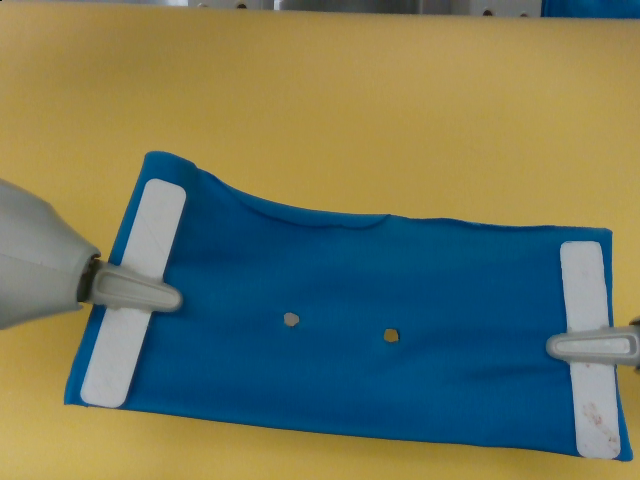
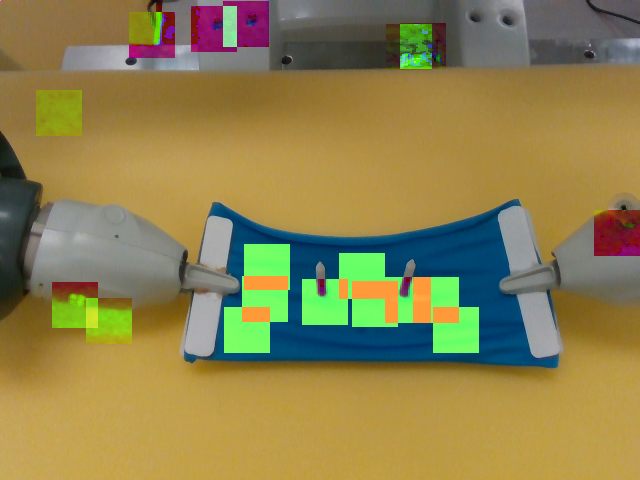
add towel node

diff --git a/src/soft_object_tracking_towel_node.cpp b/src/soft_object_tracking_towel_node.cpp
@@ -1,0 +1,238 @@
+//system and self
+#include <iostream>
+#include <fstream>
+#include <cmath>
+#include <math.h>
+#include <stddef.h>
+#include <stdlib.h>
+#include <string.h>
+
+//vision process library
+#include <pcl/visualization/cloud_viewer.h>
+#include <pcl/filters/statistical_outlier_removal.h>
+#include <pcl/filters/passthrough.h>
+#include <pcl/segmentation/sac_segmentation.h>
+#include <pcl/segmentation/region_growing_rgb.h>
+#include <pcl/search/search.h>
+#include <pcl/search/kdtree.h>
+#include <pcl/point_types_conversion.h>
+#include <pcl/point_types.h>
+#include <pcl/filters/extract_indices.h>
+#include <pcl/filters/radius_outlier_removal.h>
+#include <pcl/filters/voxel_grid.h>
+#include "opencv2/opencv.hpp"
+#include "opencv2/core/core.hpp"
+#include "opencv2/highgui/highgui.hpp"
+
+//ros
+#include <ros/ros.h>
+#include <ros/package.h>
+#include <std_msgs/Float64MultiArray.h>
+#include <std_msgs/Bool.h>
+#include <std_msgs/Int8.h>
+#include <sensor_msgs/JointState.h>
+#include <sensor_msgs/Image.h>
+#include <sensor_msgs/PointCloud2.h>
+#include <cv_bridge/cv_bridge.h>
+#include <message_filters/subscriber.h>
+#include <message_filters/time_synchronizer.h>
+#include <message_filters/chain.h>
+#include <message_filters/sync_policies/approximate_time.h>
+#include <pcl_ros/point_cloud.h>
+
+#define FPS 10
+
+//return the centroid of given points
+pcl::PointXYZRGB getCentroid(std::vector<pcl::PointXYZRGB> p)
+{
+    pcl::PointXYZRGB centroid;
+    for(int i=0;i<p.size();i++){
+        centroid.x += p[i].x;
+        centroid.y += p[i].y;
+        centroid.z += p[i].z;
+    }
+    centroid.x /= p.size();
+    centroid.y /= p.size();
+    centroid.z /= p.size();
+    return centroid;
+    
+}
+//return the distance between two points
+double dist(pcl::PointXYZRGB p1,pcl::PointXYZRGB p2)
+{
+    return (std::sqrt((p1.x-p2.x)*(p1.x-p2.x)+(p1.y-p2.y)*(p1.y-p2.y)+(p1.z-p2.z)*(p1.z-p2.z)));
+}
+
+//return value higher than threshold
+void highPass(double *pointer,int size, double threshold)
+{
+    for(int i=0;i<size;i++){
+        if(std::abs(pointer[i])<threshold)
+            pointer[i] = 0;
+    }
+}
+
+//return soomth value
+void lowPass(double *pointer,pcl::PointXYZRGB centroid11, pcl::PointXYZRGB centroid22)
+{
+    double lambda = 0;
+    pointer[0] = lambda*pointer[0] + (1-lambda)*centroid11.x;
+    pointer[1] = lambda*pointer[1] + (1-lambda)*centroid11.y;
+    pointer[2] = lambda*pointer[2] + (1-lambda)*centroid11.z;
+    pointer[3] = lambda*pointer[3] + (1-lambda)*centroid22.x;
+    pointer[4] = lambda*pointer[4] + (1-lambda)*centroid22.y;
+    pointer[5] = lambda*pointer[5] + (1-lambda)*centroid22.z;
+}
+
+
+
+pcl::PointCloud<pcl::PointXYZRGB >::Ptr cldC(new pcl::PointCloud<pcl::PointXYZRGB>);
+pcl::PointCloud<pcl::PointXYZRGB >::Ptr cldROIC(new pcl::PointCloud<pcl::PointXYZRGB>);
+pcl::visualization::CloudViewer viewer ("Simple Cloud Viewer");
+
+//global variable feedback points
+double p[6] = {0};
+//time to start tracking stage
+bool confirmed = false;
+bool is_getCen = false;
+pcl::ExtractIndices<pcl::PointXYZRGB> eifilter (true); // Initializing with true will allow us to extract the removed indices
+pcl::PointIndices::Ptr inliers (new pcl::PointIndices ());
+pcl::PointXYZRGB centroid11;
+pcl::PointXYZRGB centroid22;
+void pointCallback(const sensor_msgs::PointCloud2ConstPtr& pclPts){
+    pcl::fromROSMsg<pcl::PointXYZRGB >(*pclPts,*cldC);
+    
+    pcl::PassThrough<pcl::PointXYZRGB> pass;
+	pass.setInputCloud (cldC);
+
+    pass.setFilterFieldName ("x");
+    if(confirmed)
+        pass.setFilterLimits (-0.3, 0.3);
+    else
+        pass.setFilterLimits (-0.1, 0.1);
+
+	pass.filter (*cldROIC);
+
+    
+    pcl::PointXYZHSV temp;
+    double xCenter = 0,yCenter = 0,zCenter = 0;
+	for(int i=0;i<cldROIC->size();i++){
+		pcl::PointXYZRGBtoXYZHSV(cldROIC->points[i],temp);
+		if(temp.h>160 && temp.h<210 && temp.s>0.4){
+			inliers->indices.push_back(i);
+			xCenter +=cldROIC->points[i].x;
+            
+// 			yCenter +=cldROIC->points[i].y;
+// 			zCenter +=cldROIC->points[i].z;
+		}
+	}
+	xCenter /= inliers->indices.size();
+	
+	eifilter.setInputCloud (cldROIC);
+	eifilter.setIndices (inliers);
+	eifilter.filter (*cldROIC);
+    inliers->indices.clear();
+    
+    
+    std::vector<pcl::PointXYZRGB> selectedPoint1;
+    std::vector<pcl::PointXYZRGB> selectedPoint2;
+    std::vector<pcl::PointXYZRGB> selectedPoint11;
+    std::vector<pcl::PointXYZRGB> selectedPoint22;
+    for(int i=0;i<cldROIC->size();i++){
+        if(confirmed){
+            double dist1 = dist(cldROIC->points[i],centroid11);
+            double dist2 = dist(cldROIC->points[i],centroid22);
+            if(dist1 < std::min(dist2,0.02)){
+                selectedPoint1.push_back(cldROIC->points[i]);
+                cldROIC->points[i].g = 255;
+            }
+            else if(dist2 < std::min(dist1,0.02)){
+                selectedPoint2.push_back(cldROIC->points[i]);
+                cldROIC->points[i].g = 255;
+            }
+        }
+        else{
+            if(cldROIC->points[i].x < xCenter){
+                selectedPoint1.push_back(cldROIC->points[i]);
+            }
+            else{
+                selectedPoint2.push_back(cldROIC->points[i]);
+            }
+        }
+        
+    }
+    
+    
+//     std::cout<<"size1: "<<sizes[0]<<"  size2:"<<sizes[1]<<std::endl;
+    if(selectedPoint1.size() > 5 && selectedPoint2.size() > 5){
+        pcl::PointXYZRGB centroid1,centroid2;
+        //if confirmed, use last centroid to estimate current centroid.Otherwise compute the centroid use all points
+        
+        centroid1 = getCentroid(selectedPoint1);
+        centroid2 = getCentroid(selectedPoint2);
+        if(confirmed){
+            selectedPoint11 = selectedPoint1;
+            selectedPoint22 = selectedPoint2;
+        }
+        else{
+            for(int i=0;i<selectedPoint1.size();i++){
+                if(dist(selectedPoint1[i],centroid1)<0.1)
+                    selectedPoint11.push_back(selectedPoint1[i]);
+                }
+            for(int i=0;i<selectedPoint2.size();i++){
+                if(dist(selectedPoint2[i],centroid2)<0.1)
+                    selectedPoint22.push_back(selectedPoint2[i]);
+                }
+        }
+        if(selectedPoint11.size() > 5 && selectedPoint22.size() > 5){
+            centroid11 = getCentroid(selectedPoint11);
+            centroid22 = getCentroid(selectedPoint22);
+            centroid11.r = 255;
+            centroid22.r = 255;
+            
+            //high pass to filter noise
+//             highPass(p,6,1e-3);
+            //low pass to filter noise
+            lowPass(p,centroid11,centroid22);
+            cldROIC->points.push_back(centroid11);
+            cldROIC->points.push_back(centroid22);
+            
+            confirmed = true;
+            is_getCen = true;
+        }
+    }
+    
+	viewer.showCloud(cldROIC);
+
+}
+
+
+int main(int argc, char ** argv)
+{
+    ros::init(argc,argv, "soft_object_tracking_towel_node", ros::init_options::NoSigintHandler);
+    ros::NodeHandle node;
+    ros::Subscriber imagePoint_sub = node.subscribe("/camera/depth_registered/points_SR300_611205001943", 2, pointCallback);
+    ros::Publisher centroid_publisher = node.advertise<std_msgs::Float64MultiArray> ("/soft_object_tracking/centroid", 2);
+    
+
+    ros::Rate rate(FPS);
+    while(ros::ok())
+    {
+        if(viewer.wasStopped())
+            break;
+        if(is_getCen)
+        {
+            std_msgs::Float64MultiArray centroid_frame;
+            for(int i=0;i<6;i++)
+                centroid_frame.data.push_back(p[i]);
+            centroid_publisher.publish(centroid_frame);
+        }
+        else
+            std::cout<<"Didn't receive the feature points\n";
+
+        ros::spinOnce();
+        rate.sleep();
+    }
+            
+
+}

diff --git a/src/soft_object_tracking_node.cpp b/src/soft_object_tracking_node.cpp
@@ -47,7 +47,7 @@
 
 
 #define FPS 30
-#define QUEUQ_MAX_SIZE 1
+#define QUEUQ_MAX_SIZE 4
 
 typedef message_filters::sync_policies::ApproximateTime<sensor_msgs::Image, 
                                                         sensor_msgs::Image> syncPolicy;
@@ -124,6 +124,7 @@ cv::Mat getDepthColorMap(cv::Mat image_depth){
 
 //time to start tracking stage
 bool received = false;
+std::vector<cv::Mat> cls;
 void chatterCallbackCVC(const sensor_msgs::ImageConstPtr& imgRGB,const sensor_msgs::ImageConstPtr& imgDepth){
     imageRGB = cv_bridge::toCvCopy(imgRGB,sensor_msgs::image_encodings::BGR8);
     imageDepth = cv_bridge::toCvCopy(imgDepth,sensor_msgs::image_encodings::TYPE_16UC1);
@@ -193,32 +194,37 @@ cv::Point3f getContourCentroid(std::vector<cv::Point>& contour, cv::Point shift,
     for(int i=0;i<contour.size();i++)
     {
         //manually dilate
+        bool do_dilate = false;
         int dilate_max_size = 3;
         int dilate_min_size = 3;
         int x = contour[i].x-centroid2d.x;
         int y = contour[i].y-centroid2d.y;
 
-        if(x == 0 && y == 0){
-            std::cout<<"contour not closed\n";
-            for(int i=0;i<contour.size();i++)
-            {
-                std::cout<<contour[i].x<<" "<<contour[i].y<<" ";
-            }
-            std::cout<<"\ndp:"<<(int)contour.size()<<"\n";
-            std::vector<std::vector<cv::Point> >cs;
-            cs.push_back(contour);
-            cv::drawContours( imageRGB->image, cs, 0, cv::Scalar::all(255), 1.6, 8,cv::noArray(),INT_MAX,shift);
-            cv::imshow("imageDepthDilated",imageRGB->image);
-            cv::waitKey(0);
-        }
+//         if(x == 0 && y == 0){
+//             std::cout<<"contour not closed\n";
+//             for(int i=0;i<contour.size();i++)
+//             {
+//                 std::cout<<contour[i].x<<" "<<contour[i].y<<" ";
+//             }
+//             std::cout<<"\ndp:"<<(int)contour.size()<<"\n";
+//             std::vector<std::vector<cv::Point> >cs;
+//             cs.push_back(contour);
+//             cv::drawContours( imageRGB->image, cs, 0, cv::Scalar::all(255), 1.6, 8,cv::noArray(),INT_MAX,shift);
+//             cv::imshow("imageDepthDilated",imageRGB->image);
+//             cv::waitKey(0);
+//         }
         for(int j=dilate_min_size;j<=dilate_max_size;j++)
         {
             double dilate_scale = j/std::sqrt(x*x+y*y);
             cv::Point dilated_point;
             dilated_point.x = int(dilate_scale * x);
             dilated_point.y = int(dilate_scale * y);
-            double depth_temp = image_depth.at<ushort>(contour[i] + dilated_point + shift);
-            if(depth_temp > 0 && depth_temp < (2/intrin->dev_depth_scale))
+            double depth_temp;
+            if(do_dilate)
+                depth_temp = image_depth.at<ushort>(contour[i] + dilated_point + shift);
+            else
+                depth_temp = image_depth.at<ushort>(contour[i] + shift);
+            if(depth_temp > 0 && depth_temp < (1/intrin->dev_depth_scale))
             {
                 depth += depth_temp;
                 valued_size += 1;
@@ -303,11 +309,14 @@ int main(int argc, char ** argv)
             if(!initialized && tp.data != NULL)
             {
                 boundingBoxs = tp_matching.match(imageRGB->image,tp);
+                for(int i=0;i<boundingBoxs.size();i++)
+                    cv::rectangle(imageShowRGB,boundingBoxs[i],cv::Scalar::all(255),2,1);
                 std::vector<cv::Ptr<cv::Tracker> > algorithms;
                 for (int i = 0; i < boundingBoxs.size(); i++){
                     cv::TrackerKCF::Params kcfParams;
-                    kcfParams.detect_thresh = 0.08;
-                    kcfParams.max_patch_size=50*50;
+//                     kcfParams.detect_thresh = 0.08;
+                    kcfParams.detect_thresh = 0.20;
+                    kcfParams.max_patch_size=100*100;
                     
 //                     cv::TrackerBoosting::Params boostParams;
 //                     boostParams.numClassifiers = 100;
@@ -344,8 +353,12 @@ int main(int argc, char ** argv)
                     std::vector<cv::Point3f> centroid_frame;
                     for(int i=0;i<boundingBoxs.size();i++)
                     {
-                        int thresh_canny = 80;
-                        cv::Mat canny_src(imageRGB->image,boundingBoxs[i]);
+                        int thresh_canny = 20;
+                        cv::Mat canny_src_raw(imageRGB->image,boundingBoxs[i]);
+                        std::vector<cv::Mat> channels;
+                        cv::cvtColor(canny_src_raw,canny_src_raw,cv::COLOR_BGR2HSV);
+                        cv::split(canny_src_raw, channels);
+                        cv::Mat canny_src = channels[0];
                         cv::Mat canny_output;
                         std::vector<std::vector<cv::Point> > contours_origin;
                         std::vector<std::vector<cv::Point> > contours;
@@ -414,6 +427,10 @@ int main(int argc, char ** argv)
                     }
                     for(int i=0;i<centroid_smooth.data.size();i++)
                         centroid_smooth.data[i] /= centroid_buffer.size();
+
+
+
+//                         centroid_smooth.data[i] = 0;
                     //Publish
                     centroid_publisher.publish(centroid_smooth);
                 }
@@ -423,8 +440,8 @@ int main(int argc, char ** argv)
             cv::waitKey(3);
             received = false;
         }
-//         else
-//             std::cout<<"didn't receive image!!\n";
+        else
+            std::cout<<"didn't receive image!!\n";
         
         ros::spinOnce();
         rate.sleep();

diff --git a/src/TpMatching.h b/src/TpMatching.h
@@ -7,8 +7,8 @@ using namespace std;
 namespace som{
 class TpMatching{
 private:
-    int mechod = CV_TM_CCORR_NORMED;
-    double thresh = 0.85;
+    int mechod = CV_TM_CCOEFF_NORMED;
+    double thresh = 0.7;
     cv::Mat result;
     int dist(Rect2d p1, Point p2)
     {
@@ -32,7 +32,6 @@ public:
         /// Do the Matching and Normalize
         matchTemplate( src, tp, result, mechod );
         normalize( result, result, 0, 1, NORM_MINMAX, -1, Mat() );
-        double thresh = 0.90;
         threshold(result, result, thresh, 1., THRESH_TOZERO);
         
         Mat1b resb;
